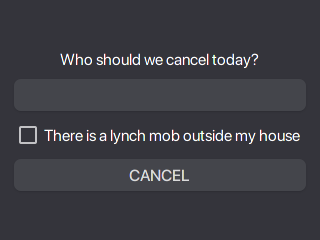
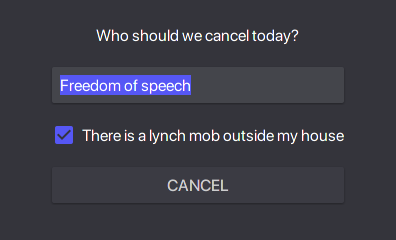
Port to Gtk2 to be more inclusive with users of older free software.

diff --git a/cancel.c b/cancel.c
@@ -1,5 +1,5 @@
 /* 
- * gcc -o cancel $(pkg-config --cflags --libs gtk+-3.0) cancel.c
+ * gcc -o cancel $(pkg-config --cflags --libs gtk+-2.0) cancel.c
  *
  * This program is free software: you can redistribute it and/or modify
  * it under the terms of the GNU General Public License as published by
@@ -17,12 +17,12 @@
 
 #include <gtk/gtk.h>
 
-static void cancel(GtkButton *btn, gpointer data)
+static void cancel(GtkWidget *window, gpointer data)
 {
-	GtkWidget *dialog, *karen, *content_area, *label;
+	GtkWidget *dialog, *content_area, *label, *karen;
 
 	dialog = gtk_dialog_new_with_buttons("Cancelled", NULL,
-		GTK_DIALOG_MODAL, "OK", GTK_RESPONSE_ACCEPT,  NULL);
+		GTK_DIALOG_MODAL, "OK", GTK_RESPONSE_ACCEPT, NULL);
 
 	content_area = gtk_dialog_get_content_area(GTK_DIALOG(dialog));
 	label = gtk_label_new("\nSuccessfully cancelled!\n");
@@ -34,27 +34,30 @@ static void cancel(GtkButton *btn, gpointer data)
 	gtk_widget_show_all(dialog);
 
 	g_signal_connect_swapped(dialog, "response",
-		G_CALLBACK (g_application_quit), data);
+		G_CALLBACK(gtk_main_quit), window);
 }
 
-static void activate(GtkApplication *app, gpointer data)
+int main(int argc, char **argv)
 {
-	GtkWidget *window, *box, *label, *entry, *button;
-	GtkWidget *lynch_mob;
+	GtkWidget *window, *align, *box, *label, *entry, *lynch_mob, *button;
 
-	window = gtk_application_window_new(app);
+	gtk_init(&argc, &argv);
+
+	window = gtk_window_new(GTK_WINDOW_TOPLEVEL);
 	gtk_window_set_default_size(GTK_WINDOW(window), 320, 240);
-	gtk_window_set_gravity(GTK_WINDOW(window), GDK_GRAVITY_CENTER);
 
-	box = gtk_box_new(GTK_ORIENTATION_VERTICAL, 10);
-	gtk_widget_set_halign(box, GTK_ALIGN_CENTER);
-	gtk_widget_set_valign(box, GTK_ALIGN_CENTER);
+	align = gtk_alignment_new(0, 0, 1, 0);
+	gtk_alignment_set_padding(GTK_ALIGNMENT(align), 15, 15, 50, 50);
+	gtk_container_add(GTK_CONTAINER(window), align);
+
+	box = gtk_vbox_new(TRUE, 10);
+	gtk_container_add(GTK_CONTAINER(align), box);
 
 	label = gtk_label_new("Who should we cancel today?");
 	gtk_container_add(GTK_CONTAINER(box), label);
 
 	entry = gtk_entry_new();
-	gtk_entry_set_text(GTK_ENTRY(entry), "FSF");
+	gtk_entry_set_text(GTK_ENTRY(entry), "Freedom of speech");
 	gtk_container_add(GTK_CONTAINER(box), entry);
 
 	lynch_mob = gtk_check_button_new_with_label(
@@ -63,23 +66,10 @@ static void activate(GtkApplication *app, gpointer data)
 
 	button = gtk_button_new_with_label("CANCEL");
 	gtk_container_add(GTK_CONTAINER(box), button);
-	g_signal_connect(button, "clicked", G_CALLBACK(cancel), app);
-
-	gtk_window_set_title(GTK_WINDOW(window), "Cancel");
-	gtk_container_add(GTK_CONTAINER(window), box);
+	g_signal_connect(button, "clicked", G_CALLBACK(cancel), window);
 
 	gtk_widget_show_all(window);
-}
+	gtk_main();
 
-int main(int argc, char **argv)
-{
-	GtkApplication *app;
-	int status;
-
-	app = gtk_application_new(NULL, G_APPLICATION_FLAGS_NONE);
-	g_signal_connect(app, "activate", G_CALLBACK(activate), NULL);
-	status = g_application_run(G_APPLICATION(app), argc, argv);
-	g_object_unref(app);
-
-	return status;
+	return 0;
 }
